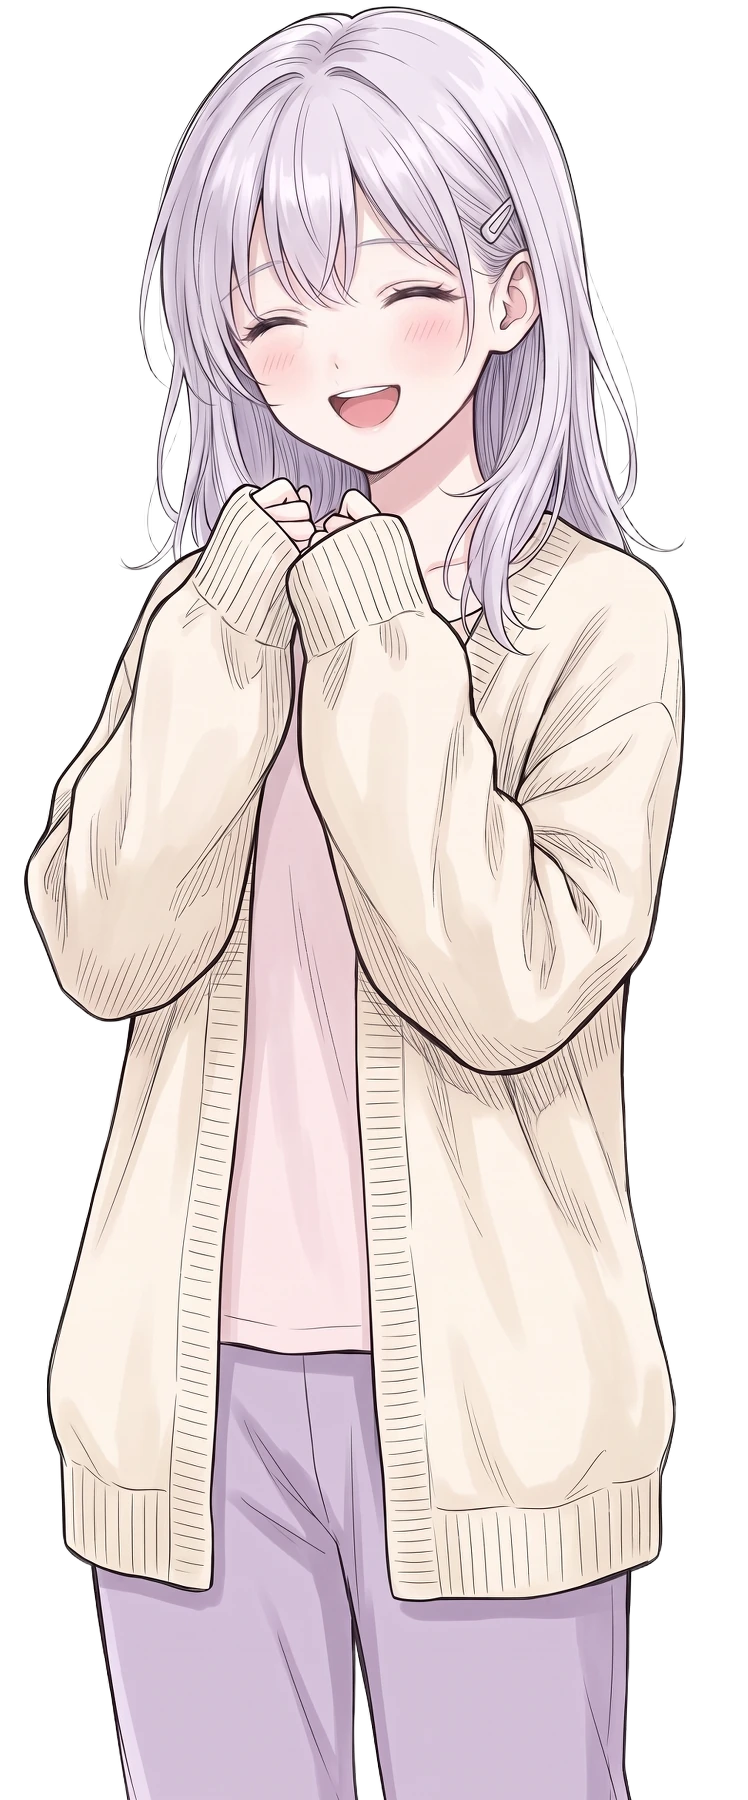
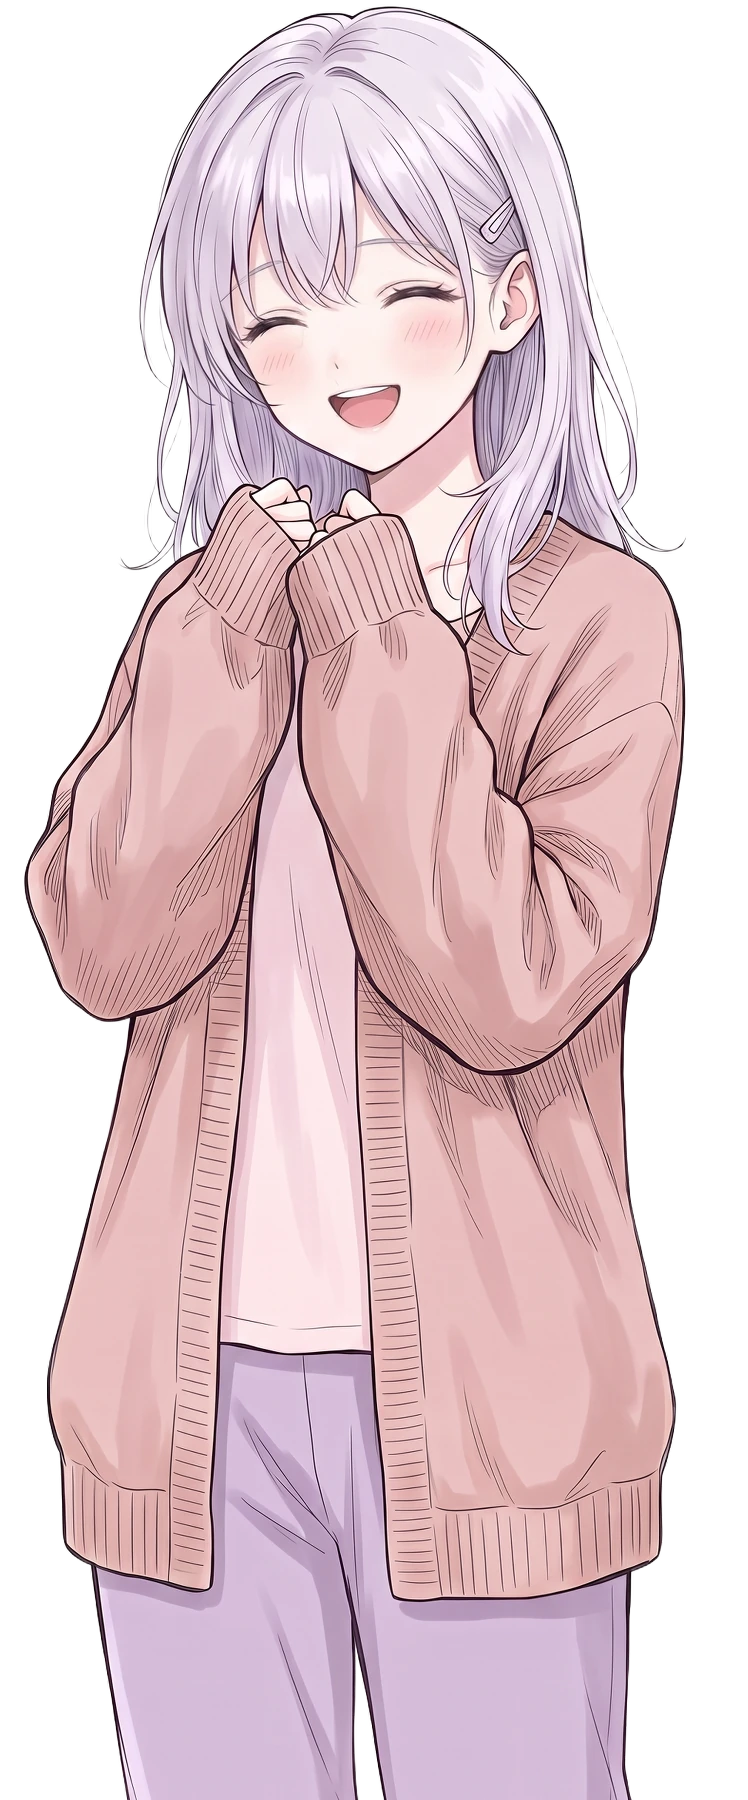
Ch3 punch list (Nov 21), in progress on the branch: script edits (Ch2 c2_0009, Ch3 callbacks, tree, rain, lunch, group line); Akane's home cardigan now dusty rose (sprites and face windows rebuilt)
Claude-Session: https://claude.ai/code/session_019tMdHXKyqqaeex1foiyRkf

diff --git a/production/pipeline/vn/voice_single_jobs.py b/production/pipeline/vn/voice_single_jobs.py
@@ -57,7 +57,10 @@ EXTRA = {"c2_0259": " She says it aloud to herself, alone, trying out a practice
          # Nov 2: Akane's illness and Dad, at the window
          "c3_0432": " Softly, matter-of-fact and reassuring, reporting what the clinic said.", "c3_0433": " Quiet and flat, not convinced.",
          "c3_0434": " Gently but firmly reassuring him, not smiling.", "c3_0435": " Quiet, worried, a little stubborn.",
-         "c3_0436": " Soft and steady, kind."}
+         "c3_0436": " Soft and steady, kind.",
+         # Nov 21 punch list
+         "c3_0336": " Dry and easy, a matter-of-fact yes.", "c3_0343": " Climbing stone steps beside him, bringing something up she has been saving.",
+         "c3_0344": " Dry, remembering; a small smile.", "c3_0345": " A little shy, then decided: she's about to tell him something."}
 REF = " He is refereeing the match: a loud, clear, crisp call that carries across the dojo."
 KIAI = {"めぇぇんっ！", "こてぇぇっ！", "どぉぉっ！"}
 lines_path, src_path, prefix, out = sys.argv[1:5]

diff --git a/production/pipeline/vn/compile_script.py b/production/pipeline/vn/compile_script.py
@@ -24,7 +24,7 @@ import json, os, re, sys
 SPEAKERS = {"kohei": "Kōhei", "nanoha": "Nanoha", "natsuki": "Natsuki", "akane": "Akane", "rika": "Rika",
             "ryosuke": "Ryōsuke", "teacher": "Ōno-sensei", "kirishima": "Kirishima", "takatsuki": "Takatsuki",
             "manager": "Manager", "yuzu": "Yuzu", "emi": "Emi", "mio": "Mio", "past_natsuki": "???",
-            "classmate": "Classmate", "genji": "Genji"}
+            "classmate": "Classmate", "genji": "Genji", "all": "Everyone"}   # "all": a line everyone says together (Ch3 lunch, Nov 21)
 # Name tags (style guide §3a): through spring (Ch1–8) every spoken line shows the full name, family name first (author,
 # Nov 1); from Ch9 only a character's first spoken line in each chapter does (the Oct 25 rule). Anyone not listed keeps
 # the short tag (no decided given name: Ōno-sensei, Manager, Classmate, "???").
